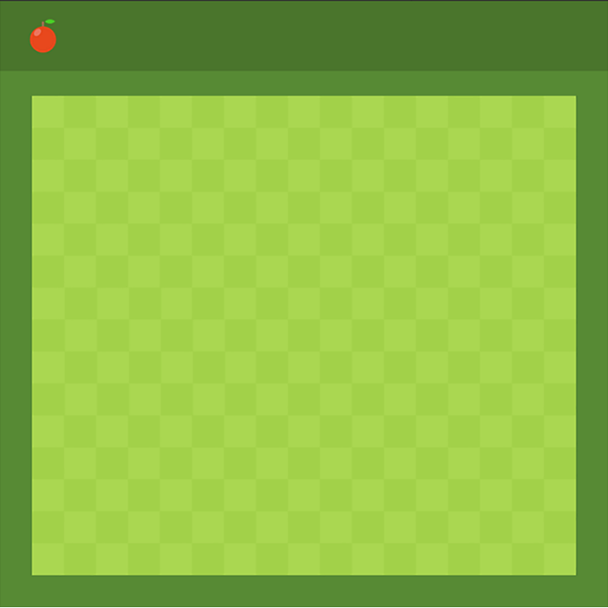
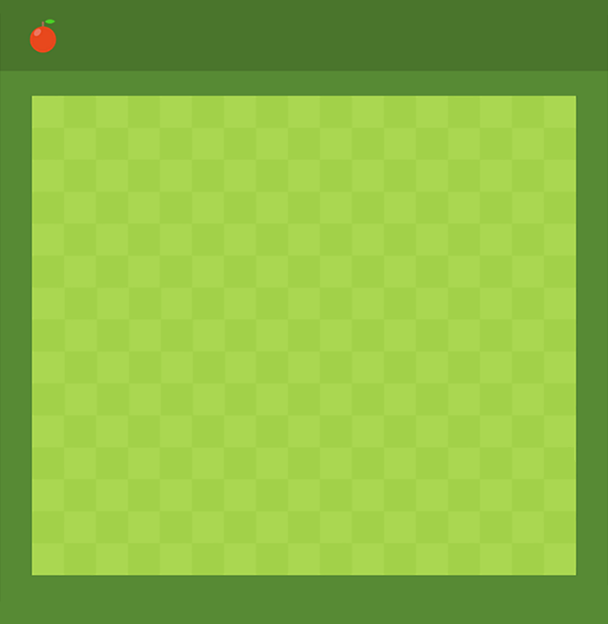
Added background and pausing to snake

Changed region(s): [[0.0312, 0.9062, 0.9688, 0.9688], [0.0625, 0.125, 0.9375, 0.1562], [0.0625, 0.0312, 0.0938, 0.0938]]

diff --git a/Snake/snake.js b/Snake/snake.js
@@ -73,42 +73,45 @@ ground.onload = function(){
     ctx.fillText("Highest score: " + highscore,12*box,1.6*box);
 }
 
+//Control pausing 
+let paused = false;
+
+
+//TogglePause function
+export function togglePause() {
+    paused = !paused;
+    if (paused) {
+        clearInterval(game);
+    }else {
+        game = setInterval(draw, gameSpeed);
+    }
+}
+
 //control the snake
 document.addEventListener("keydown",direction);
 let d;
 
 
+
 // restart the game
 function startGame(){
-
-
     clearInterval(game);
-    
     highscore = Math.max(score, highscore);
     score = 0; 
-
     // create the snake
-
     snake = [];
-
     snake[0] = {
         x : 9 * box,
         y : 10 * box
     };
-
     // create the food
-
     food = {
         x : Math.floor(Math.random()*17+1) * box,
         y : Math.floor(Math.random()*15+3) * box
     }
-
     d = "";
-
     // call draw function every 100 ms
-
     game = setInterval(draw, gameSpeed);
-
 }
 
 // draw everything to the canvas 

diff --git a/UI/pause.js b/UI/pause.js
@@ -1,4 +1,6 @@
 import { stop, start } from "../Minesweeper/timer.js"
+import { togglePause } from "../Snake/snake.js";
+
 
 const openModalButtons = document.querySelectorAll('[data-modal-target]'); //pause
 const closeModalButtons = document.querySelectorAll('[data-modal-close]'); //resume
@@ -44,6 +46,7 @@ function openModal(modal) {
   if(!overlay.classList.contains("active")){
     if (modal == null) return;
     stop();
+    togglePause(); 
     modal.classList.add('active');
     overlay.classList.add('active');
   }
@@ -52,6 +55,7 @@ function openModal(modal) {
 function closeModal(modal) {
   if (modal == null) return;
   start();
+  togglePause();
   modal.classList.remove('active');
   overlay.classList.remove('active');
 }

diff --git a/Snake/snake.css b/Snake/snake.css
@@ -1,11 +1,12 @@
 body{
-    background: #e2e2e2;
+    background: #489145;
 }
 canvas {
     display: block;
     margin: auto;
+    box-shadow: 5px 7px 15px 5px rgba(0,0,0,0.75)
 }
 
 button:hover{
-    background: #28ad4a;
+    background: #4f7259;
 }
